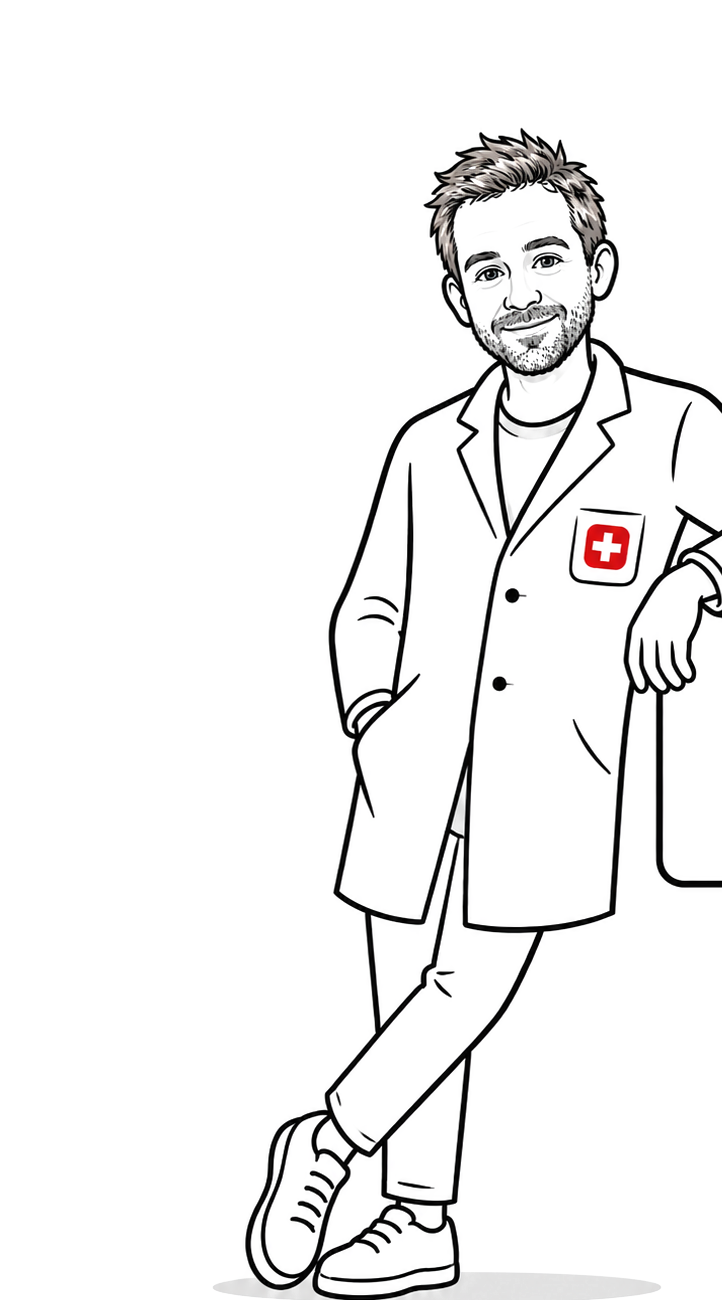
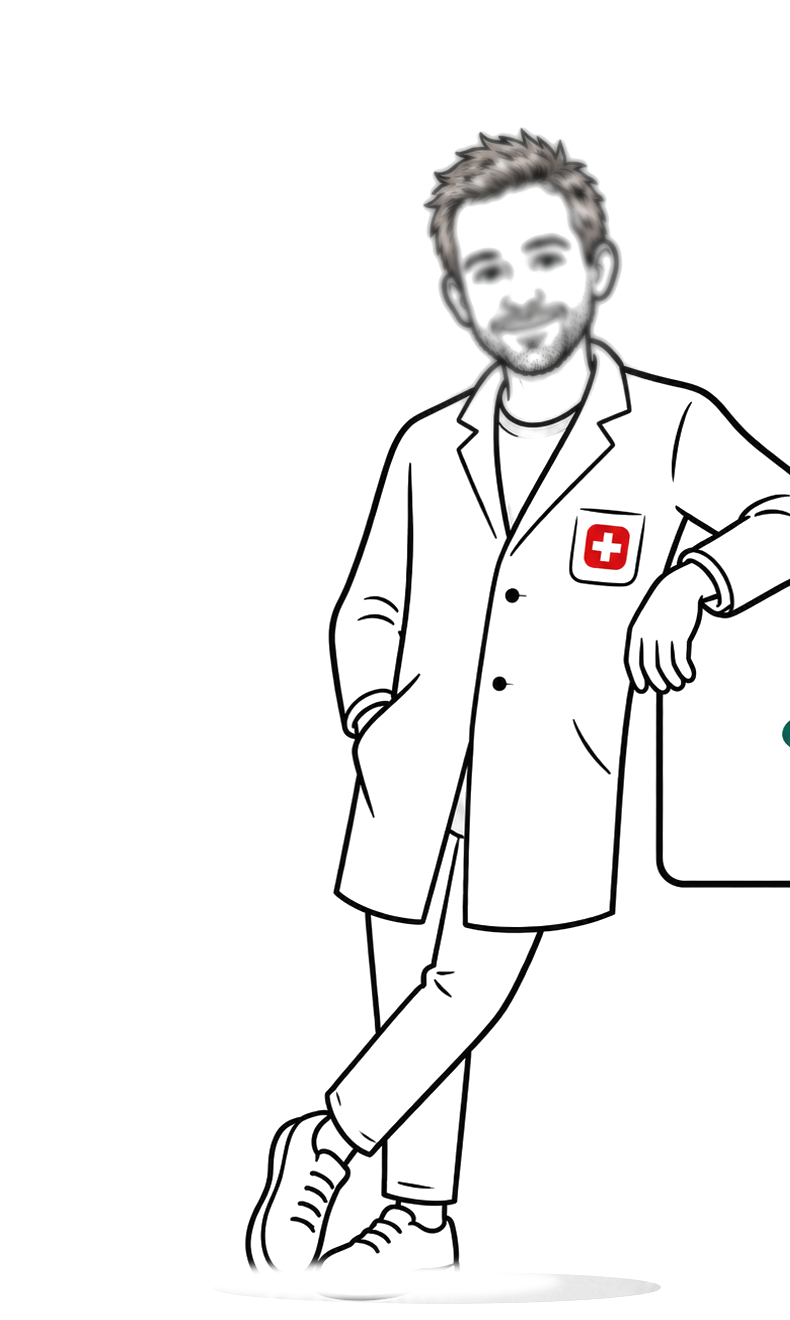
Add files via upload

Changed region(s): [[0.3047, 0.0923, 1.0, 1.0], [0.9751, 0.5538, 1.0, 0.5846], [0.6704, 0.7692, 0.7008, 0.8]]

diff --git a/index.html b/index.html
@@ -13,16 +13,37 @@
     <div class="container">
       <nav class="nav">
         <a class="brand" href="#top">
-          <span class="brand-word"><span class="cap">S</span>wiss<span class="cap">M</span>s<span class="cap">R</span>ecycle</span>
+          <span class="brand-lean-wrap">
+            <img class="brand-lean-figure" src="person-small.png" alt="">
+            <span class="brand-word"><span class="cap">S</span>wiss<span class="cap">M</span>s<span class="cap">R</span>ecycle</span>
+          </span>
         </a>
       </nav>
 
       <header class="hero" id="top">
         <div class="hero-figure">
           <img class="person-photo" src="person.png" alt="Illustration of a scientist in a lab coat with a Swiss cross patch">
-          <svg class="tof-mark" viewBox="0 0 170 110" fill="none" xmlns="http://www.w3.org/2000/svg" aria-hidden="true">
-            <rect x="0" y="0" width="110" height="30" stroke="var(--ink)" stroke-width="1.7"/>
-            <rect x="110" y="0" width="60" height="110" stroke="var(--ink)" stroke-width="1.7"/>
+          <svg class="tof-mark" viewBox="-4 0 178 116" fill="none" xmlns="http://www.w3.org/2000/svg" aria-hidden="true">
+            <rect x="0" y="0" width="110" height="30" rx="3" stroke="var(--ink)" stroke-width="1.7"/>
+            <rect x="110" y="0" width="60" height="110" rx="3" stroke="var(--ink)" stroke-width="1.7"/>
+            <rect x="104" y="6" width="12" height="18" stroke="var(--ink)" stroke-width="1.4"/>
+            <line x1="14" y1="0" x2="14" y2="6" stroke="var(--ink)" stroke-width="1.2"/>
+            <line x1="28" y1="0" x2="28" y2="6" stroke="var(--ink)" stroke-width="1.2"/>
+            <line x1="42" y1="0" x2="42" y2="6" stroke="var(--ink)" stroke-width="1.2"/>
+            <line x1="56" y1="0" x2="56" y2="6" stroke="var(--ink)" stroke-width="1.2"/>
+            <line x1="70" y1="0" x2="70" y2="6" stroke="var(--ink)" stroke-width="1.2"/>
+            <line x1="84" y1="0" x2="84" y2="6" stroke="var(--ink)" stroke-width="1.2"/>
+            <line x1="14" y1="24" x2="14" y2="30" stroke="var(--ink)" stroke-width="1.2"/>
+            <line x1="28" y1="24" x2="28" y2="30" stroke="var(--ink)" stroke-width="1.2"/>
+            <line x1="42" y1="24" x2="42" y2="30" stroke="var(--ink)" stroke-width="1.2"/>
+            <line x1="56" y1="24" x2="56" y2="30" stroke="var(--ink)" stroke-width="1.2"/>
+            <line x1="70" y1="24" x2="70" y2="30" stroke="var(--ink)" stroke-width="1.2"/>
+            <line x1="84" y1="24" x2="84" y2="30" stroke="var(--ink)" stroke-width="1.2"/>
+            <circle cx="122" cy="10" r="2.4" fill="var(--accent)"/>
+            <rect x="118" y="94" width="30" height="8" rx="1.5" stroke="var(--ink)" stroke-width="1.1"/>
+            <line x1="-4" y1="112" x2="174" y2="112" stroke="var(--ink)" stroke-width="2" stroke-linecap="round"/>
+            <line x1="10" y1="30" x2="10" y2="112" stroke="var(--ink)" stroke-width="1.2"/>
+            <line x1="150" y1="86" x2="150" y2="112" stroke="var(--ink)" stroke-width="1.2"/>
             <path id="tof-path-hero" d="M4 18 Q14 12 20 18 Q26 24 32 18 Q38 12 44 18 Q50 24 56 18 Q62 12 68 18 Q74 24 80 18 Q86 12 92 18 Q98 24 104 18 L110 18 L124 6 L136 40 L148 6 L156 100" stroke="none"/>
             <circle r="3" fill="var(--accent)"><animateMotion dur="3.2s" repeatCount="indefinite"><mpath href="#tof-path-hero"/></animateMotion></circle>
             <circle r="2.6" fill="var(--offer)"><animateMotion dur="3.2s" begin="-1.1s" repeatCount="indefinite"><mpath href="#tof-path-hero"/></animateMotion></circle>
@@ -50,8 +71,16 @@
       <path id="divider-path" d="M-10 6 L45 6 L100 34 L155 6 L210 34 L265 6 L320 34 L375 6 L430 34 L485 6 L540 34 L595 6 L650 34 L705 6 L760 34 L815 6 L870 34 L925 6 L980 34"
         fill="none" stroke="none"/>
       <circle r="5" fill="var(--accent)"><animateMotion dur="6s" repeatCount="indefinite"><mpath href="#divider-path"/></animateMotion></circle>
+      <circle r="4" fill="var(--accent)" opacity="0.45"><animateMotion dur="6s" begin="-0.15s" repeatCount="indefinite"><mpath href="#divider-path"/></animateMotion></circle>
+      <circle r="3" fill="var(--accent)" opacity="0.22"><animateMotion dur="6s" begin="-0.3s" repeatCount="indefinite"><mpath href="#divider-path"/></animateMotion></circle>
+
       <circle r="5" fill="var(--offer)"><animateMotion dur="6s" begin="-2s" repeatCount="indefinite"><mpath href="#divider-path"/></animateMotion></circle>
+      <circle r="4" fill="var(--offer)" opacity="0.45"><animateMotion dur="6s" begin="-2.15s" repeatCount="indefinite"><mpath href="#divider-path"/></animateMotion></circle>
+      <circle r="3" fill="var(--offer)" opacity="0.22"><animateMotion dur="6s" begin="-2.3s" repeatCount="indefinite"><mpath href="#divider-path"/></animateMotion></circle>
+
       <circle r="5" fill="var(--ion-blue)"><animateMotion dur="6s" begin="-4s" repeatCount="indefinite"><mpath href="#divider-path"/></animateMotion></circle>
+      <circle r="4" fill="var(--ion-blue)" opacity="0.45"><animateMotion dur="6s" begin="-4.15s" repeatCount="indefinite"><mpath href="#divider-path"/></animateMotion></circle>
+      <circle r="3" fill="var(--ion-blue)" opacity="0.22"><animateMotion dur="6s" begin="-4.3s" repeatCount="indefinite"><mpath href="#divider-path"/></animateMotion></circle>
     </svg>
   </div>
 

diff --git a/login.html b/login.html
@@ -12,9 +12,27 @@
   <div class="auth-card">
     <div class="hero-figure hero-figure--sm">
       <img class="person-photo" src="person.png" alt="Illustration of a scientist in a lab coat with a Swiss cross patch">
-      <svg class="tof-mark" viewBox="0 0 170 110" fill="none" xmlns="http://www.w3.org/2000/svg" aria-hidden="true">
-        <rect x="0" y="0" width="110" height="30" stroke="var(--ink)" stroke-width="1.7"/>
-        <rect x="110" y="0" width="60" height="110" stroke="var(--ink)" stroke-width="1.7"/>
+      <svg class="tof-mark" viewBox="-4 0 178 116" fill="none" xmlns="http://www.w3.org/2000/svg" aria-hidden="true">
+        <rect x="0" y="0" width="110" height="30" rx="3" stroke="var(--ink)" stroke-width="1.7"/>
+            <rect x="110" y="0" width="60" height="110" rx="3" stroke="var(--ink)" stroke-width="1.7"/>
+            <rect x="104" y="6" width="12" height="18" stroke="var(--ink)" stroke-width="1.4"/>
+            <line x1="14" y1="0" x2="14" y2="6" stroke="var(--ink)" stroke-width="1.2"/>
+            <line x1="28" y1="0" x2="28" y2="6" stroke="var(--ink)" stroke-width="1.2"/>
+            <line x1="42" y1="0" x2="42" y2="6" stroke="var(--ink)" stroke-width="1.2"/>
+            <line x1="56" y1="0" x2="56" y2="6" stroke="var(--ink)" stroke-width="1.2"/>
+            <line x1="70" y1="0" x2="70" y2="6" stroke="var(--ink)" stroke-width="1.2"/>
+            <line x1="84" y1="0" x2="84" y2="6" stroke="var(--ink)" stroke-width="1.2"/>
+            <line x1="14" y1="24" x2="14" y2="30" stroke="var(--ink)" stroke-width="1.2"/>
+            <line x1="28" y1="24" x2="28" y2="30" stroke="var(--ink)" stroke-width="1.2"/>
+            <line x1="42" y1="24" x2="42" y2="30" stroke="var(--ink)" stroke-width="1.2"/>
+            <line x1="56" y1="24" x2="56" y2="30" stroke="var(--ink)" stroke-width="1.2"/>
+            <line x1="70" y1="24" x2="70" y2="30" stroke="var(--ink)" stroke-width="1.2"/>
+            <line x1="84" y1="24" x2="84" y2="30" stroke="var(--ink)" stroke-width="1.2"/>
+            <circle cx="122" cy="10" r="2.4" fill="var(--accent)"/>
+            <rect x="118" y="94" width="30" height="8" rx="1.5" stroke="var(--ink)" stroke-width="1.1"/>
+            <line x1="-4" y1="112" x2="174" y2="112" stroke="var(--ink)" stroke-width="2" stroke-linecap="round"/>
+            <line x1="10" y1="30" x2="10" y2="112" stroke="var(--ink)" stroke-width="1.2"/>
+            <line x1="150" y1="86" x2="150" y2="112" stroke="var(--ink)" stroke-width="1.2"/>
         <path id="tof-path-login" d="M4 18 Q14 12 20 18 Q26 24 32 18 Q38 12 44 18 Q50 24 56 18 Q62 12 68 18 Q74 24 80 18 Q86 12 92 18 Q98 24 104 18 L110 18 L124 6 L136 40 L148 6 L156 100" stroke="none"/>
         <circle r="3" fill="var(--accent)"><animateMotion dur="3.2s" repeatCount="indefinite"><mpath href="#tof-path-login"/></animateMotion></circle>
         <circle r="2.6" fill="var(--offer)"><animateMotion dur="3.2s" begin="-1.1s" repeatCount="indefinite"><mpath href="#tof-path-login"/></animateMotion></circle>

diff --git a/style.css b/style.css
@@ -89,7 +89,7 @@ a { color: inherit; }
   height: 130px;
   width: auto;
   margin-top: 148px;
-  margin-left: -18px;
+  margin-left: -55px;
   display: block;
 }
 
@@ -113,6 +113,21 @@ a { color: inherit; }
   width: 360px;
   height: auto;
   margin: 0 auto 24px;
+}
+
+.brand-lean-wrap {
+  position: relative;
+  display: inline-block;
+}
+
+.brand-lean-figure {
+  position: absolute;
+  left: -10px;
+  bottom: -8px;
+  height: 58px;
+  width: auto;
+  transform: scaleX(-1);
+  pointer-events: none;
 }
 
 .cap {
